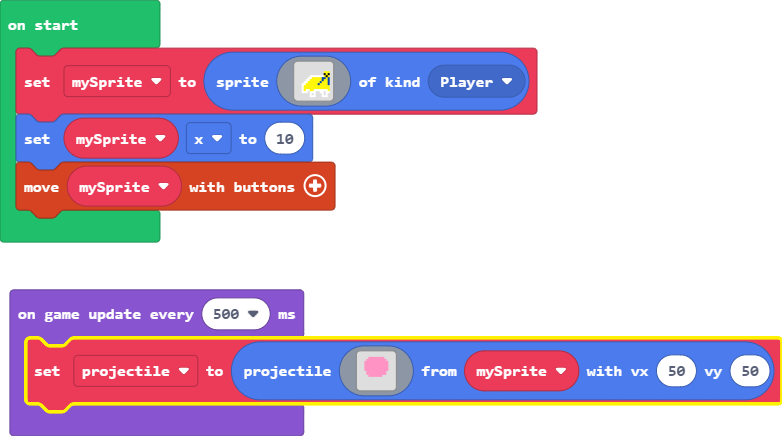
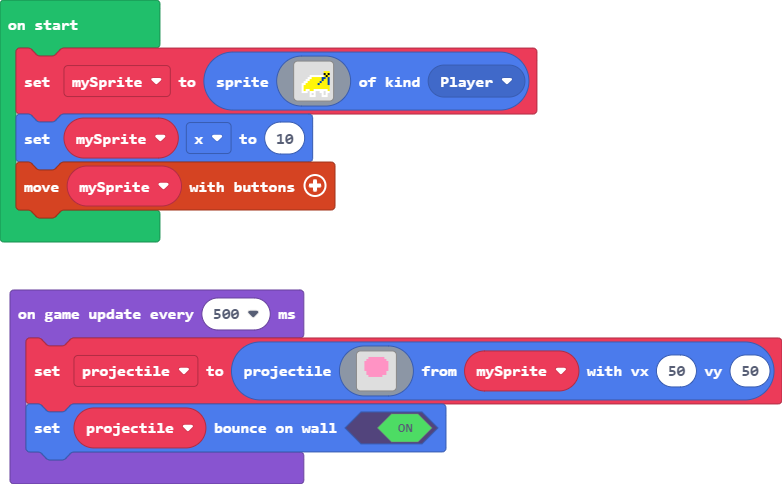
Update main.blocks, main.ts

diff --git a/main.ts b/main.ts
@@ -38,4 +38,5 @@ game.onUpdateInterval(500, function () {
         . . . . . . . . . . . . . . . . 
         . . . . . . . . . . . . . . . . 
         `, mySprite, 50, 50)
+    projectile.setBounceOnWall(true)
 })
